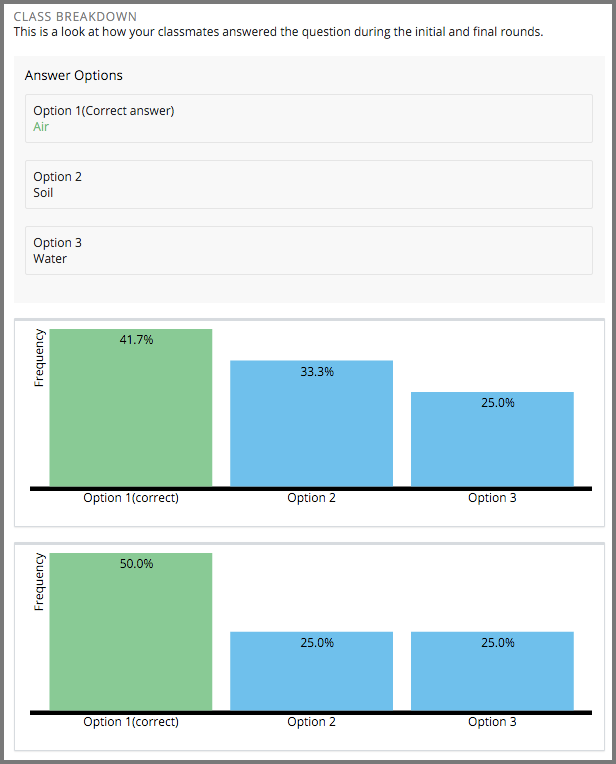
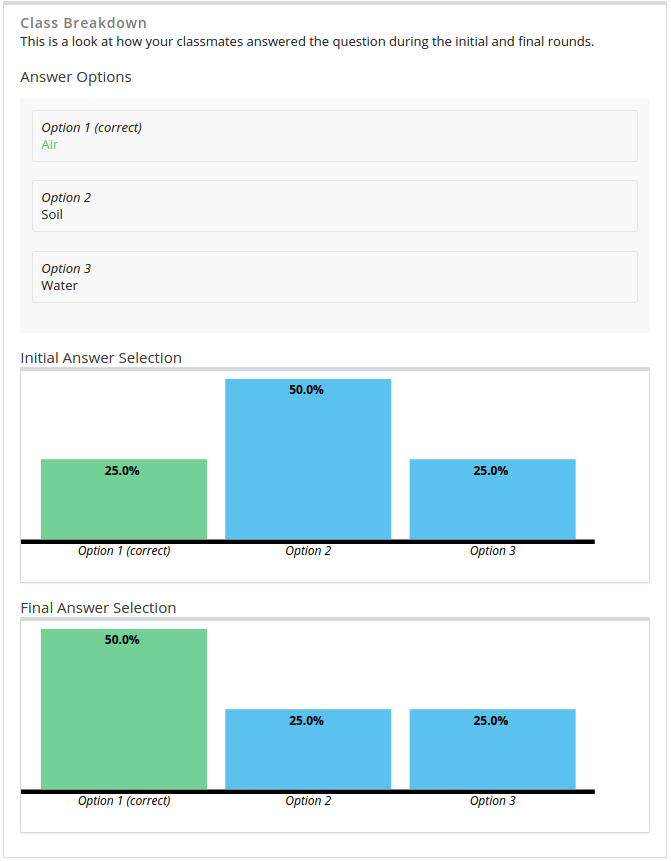
Update for Peer Instruction Tool
Keep the name of the tool the same as before. Also update screenshots
and describe scenario with no correct answer.

Address feedback/changes requested by edX

Changed region(s): [[0.0, 0.0, 1.0, 1.0], [0.0617, 0.301, 0.1542, 0.3613], [0.0617, 0.2107, 0.1542, 0.2709]]

diff --git a/en_us/shared/exercises_tools/peer_instruction_tool.rst b/en_us/shared/exercises_tools/peer_instruction_tool.rst
@@ -104,8 +104,8 @@ Before you can add a component to your course structure for a peer instruction
 assignment, you must enable the peer instruction tool for your course.
 
 To enable the peer instruction tool in Studio, you add the ``"ubcpi"`` key to
-the **Advanced Module List** on the **Advanced Settings** page. (Be sure to
-include the quotation marks around the key value.) For more information, see
+the **Advanced Module List** on the **Advanced Settings** page. Be sure to
+include quotation marks around the key value. For more information, see
 :ref:`Enable Additional Exercises and Tools`.
 
 .. note:: This tool was developed and contributed to the edX platform by the
@@ -215,12 +215,13 @@ steps.
    * To delete an answer choice, select the **X** next to the text field for
      that answer.
 
-#. Specify which of the answer choices is the correct answer. You identify the
-   correct answer choice by its assigned number: to indicate Answer 1 you
+#. Specify which of the answer choices is the correct answer. Alternatively, you
+   can choose to not specify a correct answer by selecting "n/a". You identify
+   the correct answer choice by its assigned number: to indicate Answer 1 you
    select **Option 1**, for Answer 2 you select **Option 2**, and so on.
 
 #. Enter a text explanation that describes why the specified answer choice is
-   correct.
+   correct. This is optional if you have chosen to not specify a correct answer.
 
 #. Configure how, and how many, peer responses to show to learners after
    they submit an initial response.
@@ -251,17 +252,19 @@ steps.
 
    If **Save** is not available, an edit check has detected incomplete or
    invalid information in the component editor. Review your entries to make
-   sure that each field has an entry, and that you have provided an example
-   explanation for each answer choice. For information about the error found,
-   move your cursor over the question mark that appears next to **Save**.
+   sure that each field has an entry (as appropriate), and that you have
+   provided an example explanation for each answer choice. For information
+   about the error found, move your cursor over the question mark that
+   appears next to **Save**.
 
 ************************************************
 Reviewing a Histogram of Learner Responses
 ************************************************
 
 When learners submit their final answer choices and revised explanations, the
-peer instruction tool displays the correct answer and its explanation. The
-learner's initial answer and response, and final answer and response, follow.
+peer instruction tool displays the correct answer, if you have specified one,
+and its explanation (if applicable). The learner's initial answer and response,
+and final answer and response, follow.
 
 As soon as 10 learners complete the assignment, the peer instruction tool
 displays a pair of class breakdown histograms. These histograms show how
